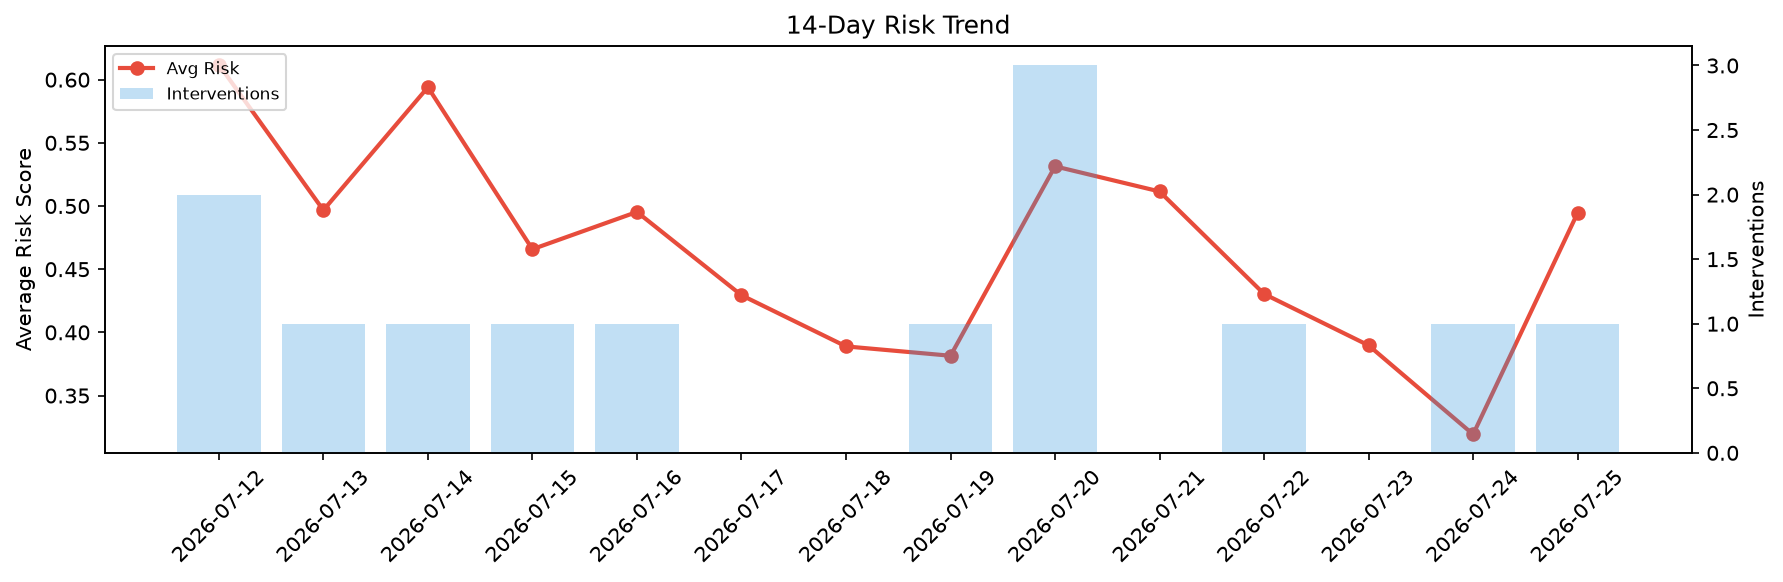
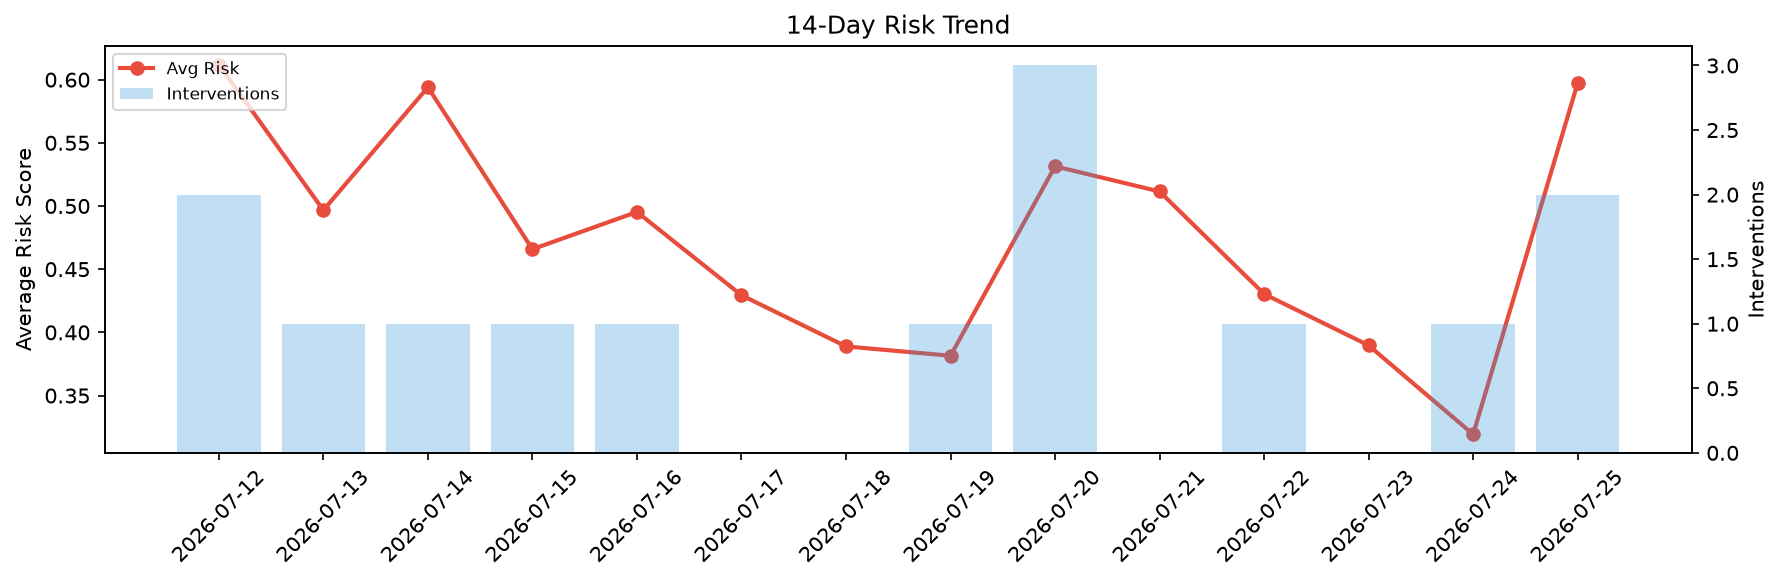
agent-improvement: daily cycle 2026-07-25T21:07

Changed region(s): [[0.8329, 0.3093, 0.9254, 0.6804], [0.8637, 0.1237, 0.8946, 0.1546]]

diff --git a/logs/2026-07-25.md b/logs/2026-07-25.md
@@ -1,6 +1,6 @@
 # Agent Improvement Report — 2026-07-25
 
-**Cycle ID:** `ae143a44` | **Avg Risk:** 0.4946 | **Interventions:** 1/4
+**Cycle ID:** `b16ff046` | **Avg Risk:** 0.5973 | **Interventions:** 2/4
 
 ![Dashboard](2026-07-25_dashboard.png)
 
@@ -10,18 +10,18 @@
 
 | Domain | Risk Score | Decision | Alerts |
 |--------|-----------|----------|--------|
-| code_review | 0.6327 | intervene | complexity, duplication |
-| incident_response | 0.2537 | monitor | none |
-| data_pipeline | 0.523 | monitor | volume_anomaly |
-| deployment | 0.569 | monitor | latency_p99 |
+| code_review | 0.8827 | intervene | complexity, duplication, coverage |
+| incident_response | 0.5617 | monitor | mttr |
+| data_pipeline | 0.7518 | intervene | freshness, schema_drift |
+| deployment | 0.1928 | monitor | none |
 
 ## Delta vs Yesterday
 
 | Domain | Today | Yesterday | Change |
 |--------|-------|-----------|--------|
-| code_review | 0.6327 | 0.19 | 📈 233.0% |
-| incident_response | 0.2537 | 0.6337 | 📉 -60.0% |
-| data_pipeline | 0.523 | 0.3608 | 📈 45.0% |
-| deployment | 0.569 | 0.0927 | 📈 513.8% |
+| code_review | 0.8827 | 0.19 | 📈 364.6% |
+| incident_response | 0.5617 | 0.6337 | 📉 -11.4% |
+| data_pipeline | 0.7518 | 0.3608 | 📈 108.4% |
+| deployment | 0.1928 | 0.0927 | 📈 108.0% |
 
 **Refinement:** `{'adjustment': 'maintain', 'trend': 'improving', 'window': 4}`
